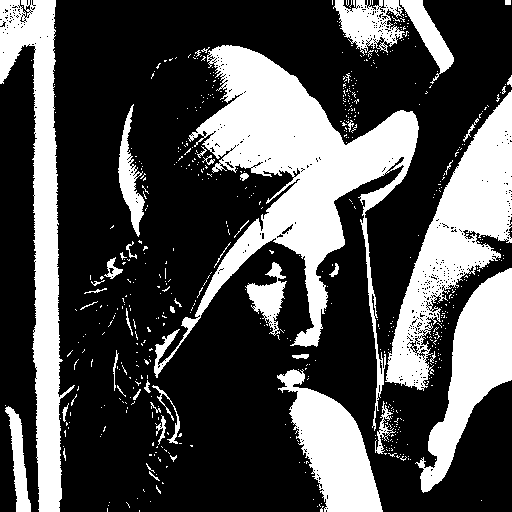
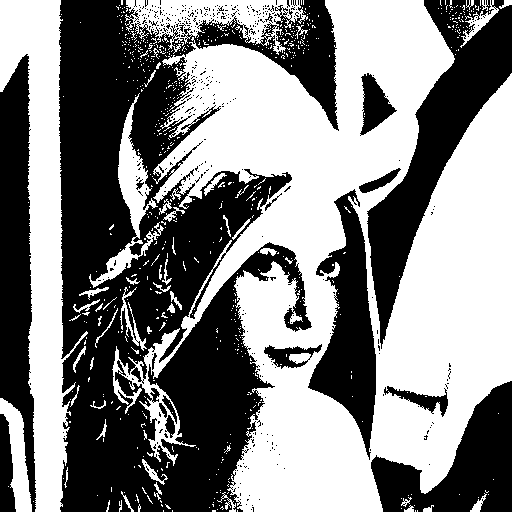
add pic

diff --git a/CV_python_toolbox/test/mean_and_stddv.py b/CV_python_toolbox/test/mean_and_stddv.py
@@ -5,7 +5,7 @@ lib_path = os.path.abspath(os.path.join(sys.path[0], '..'))
 sys.path.append(lib_path)
 from src.basic_cv_tool import *
 
-image_2_name = '../../homework1/lena.bmp'
+image_2_name = '../../homework1/elain1.bmp'
 
 tool = basic_cv_tool(image_2_name)
 img = tool.ImageRead(image_2_name)
